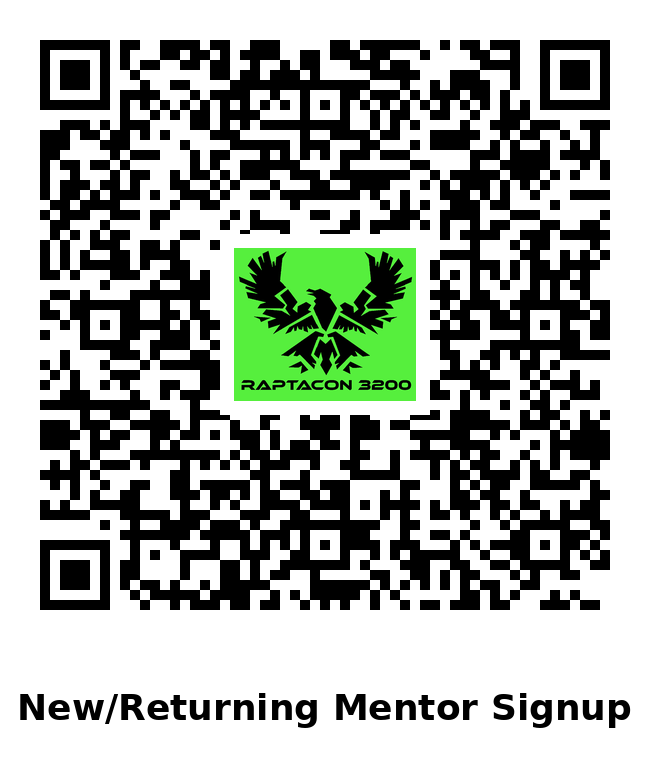
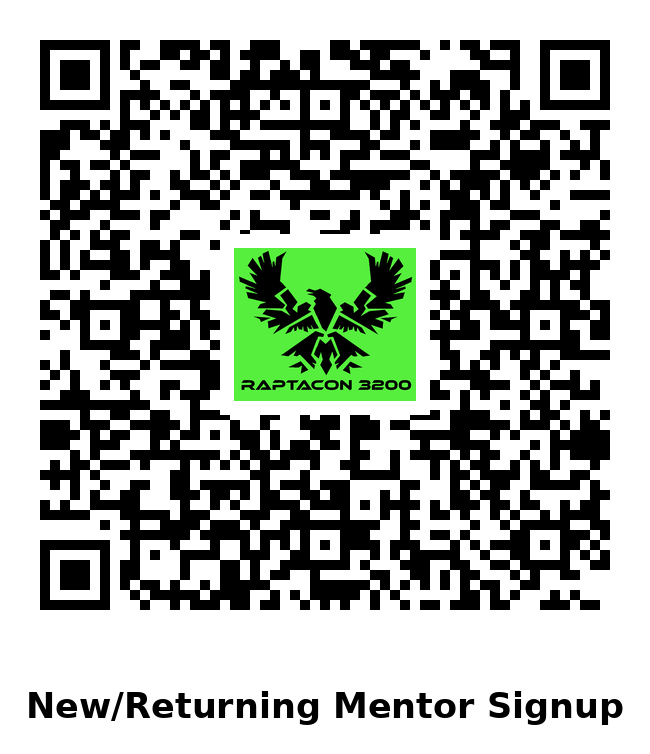
Shrink QR captions to fit the image

diff --git a/qr-generator/make_qr.py b/qr-generator/make_qr.py
@@ -116,12 +116,18 @@ def _load_caption_font(font_size: int):
 
 def add_caption(img: Image.Image, caption: str) -> Image.Image:
     """Adds a bold caption below the QR on an expanded white canvas."""
+    # Start at a size that scales with the QR, then shrink until the caption
+    # fits inside the image with a small side margin.
+    max_text_w = int(img.width * 0.92)
     font_size = max(24, img.width // 18)
-    font = _load_caption_font(font_size)
-
     draw_probe = ImageDraw.Draw(Image.new('RGBA', (1, 1)))
-    bbox = draw_probe.textbbox((0, 0), caption, font=font)
-    text_w, text_h = bbox[2] - bbox[0], bbox[3] - bbox[1]
+    while True:
+        font = _load_caption_font(font_size)
+        bbox = draw_probe.textbbox((0, 0), caption, font=font)
+        text_w, text_h = bbox[2] - bbox[0], bbox[3] - bbox[1]
+        if text_w <= max_text_w or font_size <= 10:
+            break
+        font_size -= 1
 
     padding = font_size
     canvas = Image.new('RGBA', (img.width, img.height + text_h + padding * 2), 'white')

diff --git a/qr-generator/test_make_qr.py b/qr-generator/test_make_qr.py
@@ -62,6 +62,19 @@ def test_caption_uses_a_real_scalable_font():
     assert band > base.width // 12
 
 
+def test_long_caption_fits_inside_the_image():
+    # A short payload gives a small QR; a long caption must shrink to fit
+    # rather than run off both edges.
+    base = make_qr.build_qr_with_logo("sms:81010?&body=@3200rapta", LOGO)
+    caption = "Remind: text @3200rapta to 81010"
+    captioned = make_qr.add_caption(base, caption)
+    band = captioned.crop((0, base.height, captioned.width, captioned.height)).convert("L")
+    dark_cols = [x for x in range(band.width) if any(band.getpixel((x, y)) < 128 for y in range(band.height))]
+    assert dark_cols, "caption should be drawn"
+    margin = band.width * 0.02
+    assert min(dark_cols) > margin and max(dark_cols) < band.width - margin
+
+
 def test_end_to_end_file_output(tmp_path, monkeypatch):
     out = tmp_path / "qr.png"
     monkeypatch.setattr(
